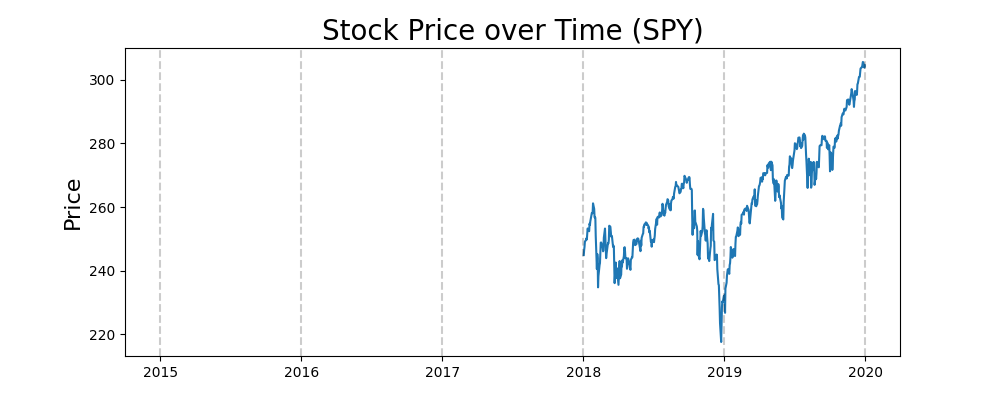
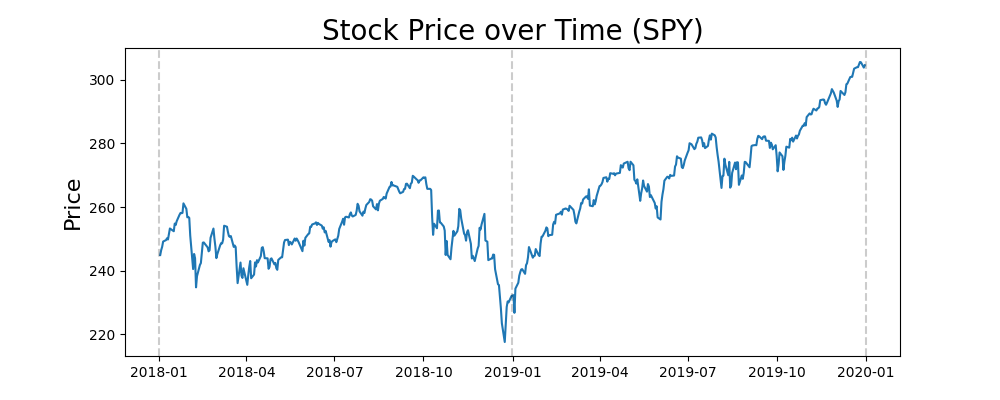
update 44

diff --git a/algorithm/convert_to_stationary_acf_pacf.py b/algorithm/convert_to_stationary_acf_pacf.py
@@ -11,6 +11,6 @@ plt.figure(figsize=(10,4))
 plt.plot(tickerDf.Close)
 plt.title('Stock Price over Time (%s)'%ticker_symbol, fontsize=20)
 plt.ylabel('Price', fontsize=16)
-for year in range(2015,2021):
+for year in range(2018,2021):
     plt.axvline(pd.to_datetime(str(year)+'-01-01'), color='k', linestyle='--', alpha=0.2)
 plt.savefig('plot1.png')
